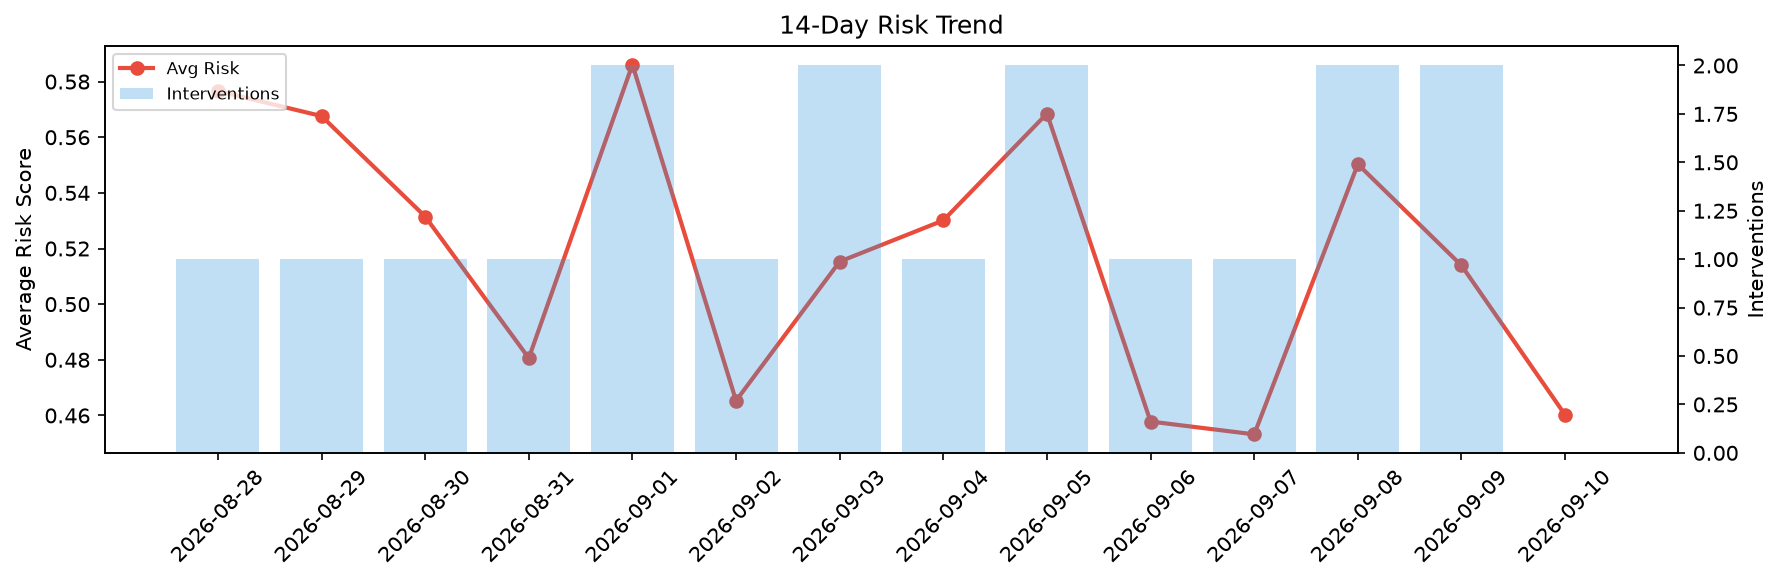
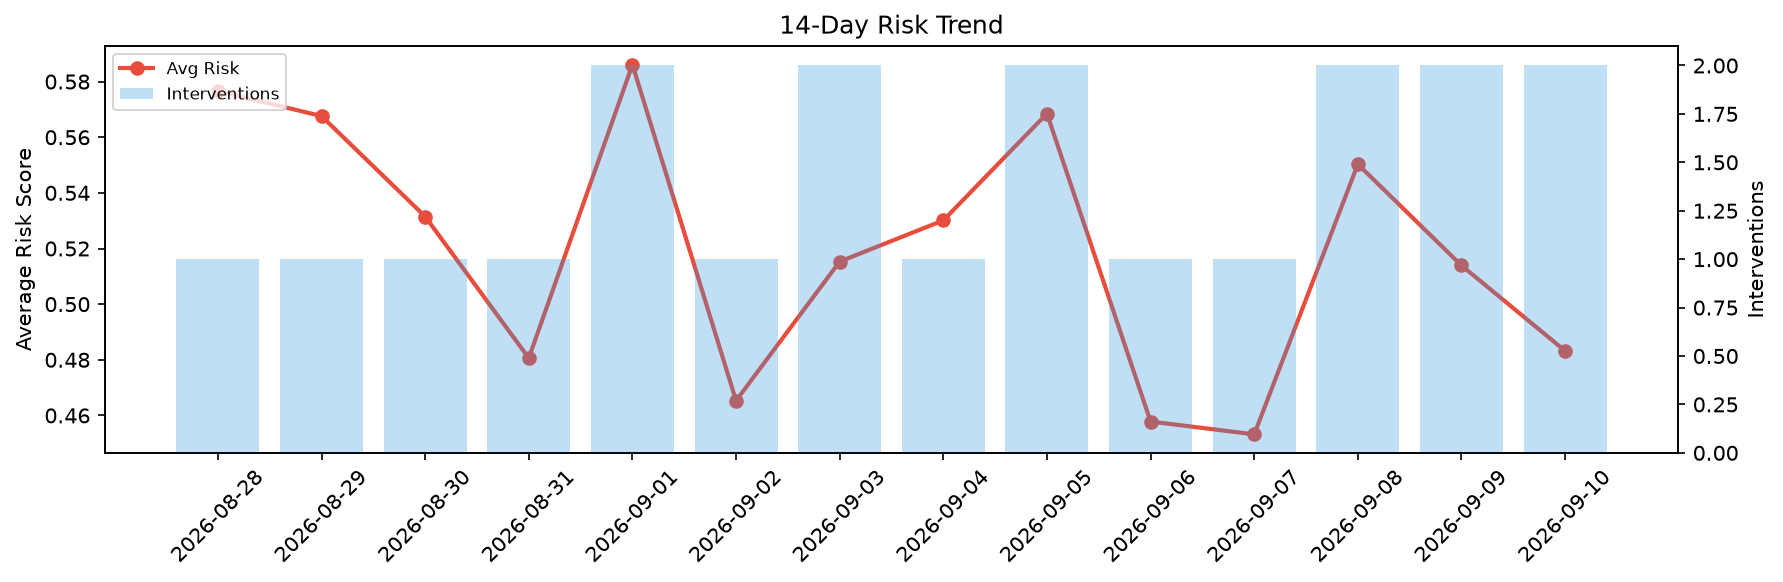
agent-improvement: daily cycle 2026-09-10T17:42

Changed region(s): [[0.802, 0.0928, 0.9254, 0.8041]]

diff --git a/logs/2026-09-10.md b/logs/2026-09-10.md
@@ -1,6 +1,6 @@
 # Agent Improvement Report — 2026-09-10
 
-**Cycle ID:** `07c40f7d` | **Avg Risk:** 0.4602 | **Interventions:** 0/4
+**Cycle ID:** `97f7d328` | **Avg Risk:** 0.4832 | **Interventions:** 2/4
 
 ![Dashboard](2026-09-10_dashboard.png)
 
@@ -10,18 +10,18 @@
 
 | Domain | Risk Score | Decision | Alerts |
 |--------|-----------|----------|--------|
-| code_review | 0.4429 | monitor | none |
-| incident_response | 0.3791 | monitor | severity |
-| data_pipeline | 0.4846 | monitor | freshness |
-| deployment | 0.534 | monitor | none |
+| code_review | 0.4073 | monitor | none |
+| incident_response | 0.6172 | intervene | none |
+| data_pipeline | 0.1889 | monitor | none |
+| deployment | 0.7195 | intervene | canary_error |
 
 ## Delta vs Yesterday
 
 | Domain | Today | Yesterday | Change |
 |--------|-------|-----------|--------|
-| code_review | 0.4429 | 0.71 | 📉 -37.6% |
-| incident_response | 0.3791 | 0.2181 | 📈 73.8% |
-| data_pipeline | 0.4846 | 0.6485 | 📉 -25.3% |
-| deployment | 0.534 | 0.479 | 📈 11.5% |
+| code_review | 0.4073 | 0.71 | 📉 -42.6% |
+| incident_response | 0.6172 | 0.2181 | 📈 183.0% |
+| data_pipeline | 0.1889 | 0.6485 | 📉 -70.9% |
+| deployment | 0.7195 | 0.479 | 📈 50.2% |
 
 **Refinement:** `{'adjustment': 'tighten_thresholds', 'trend': 'degrading', 'window': 4}`
